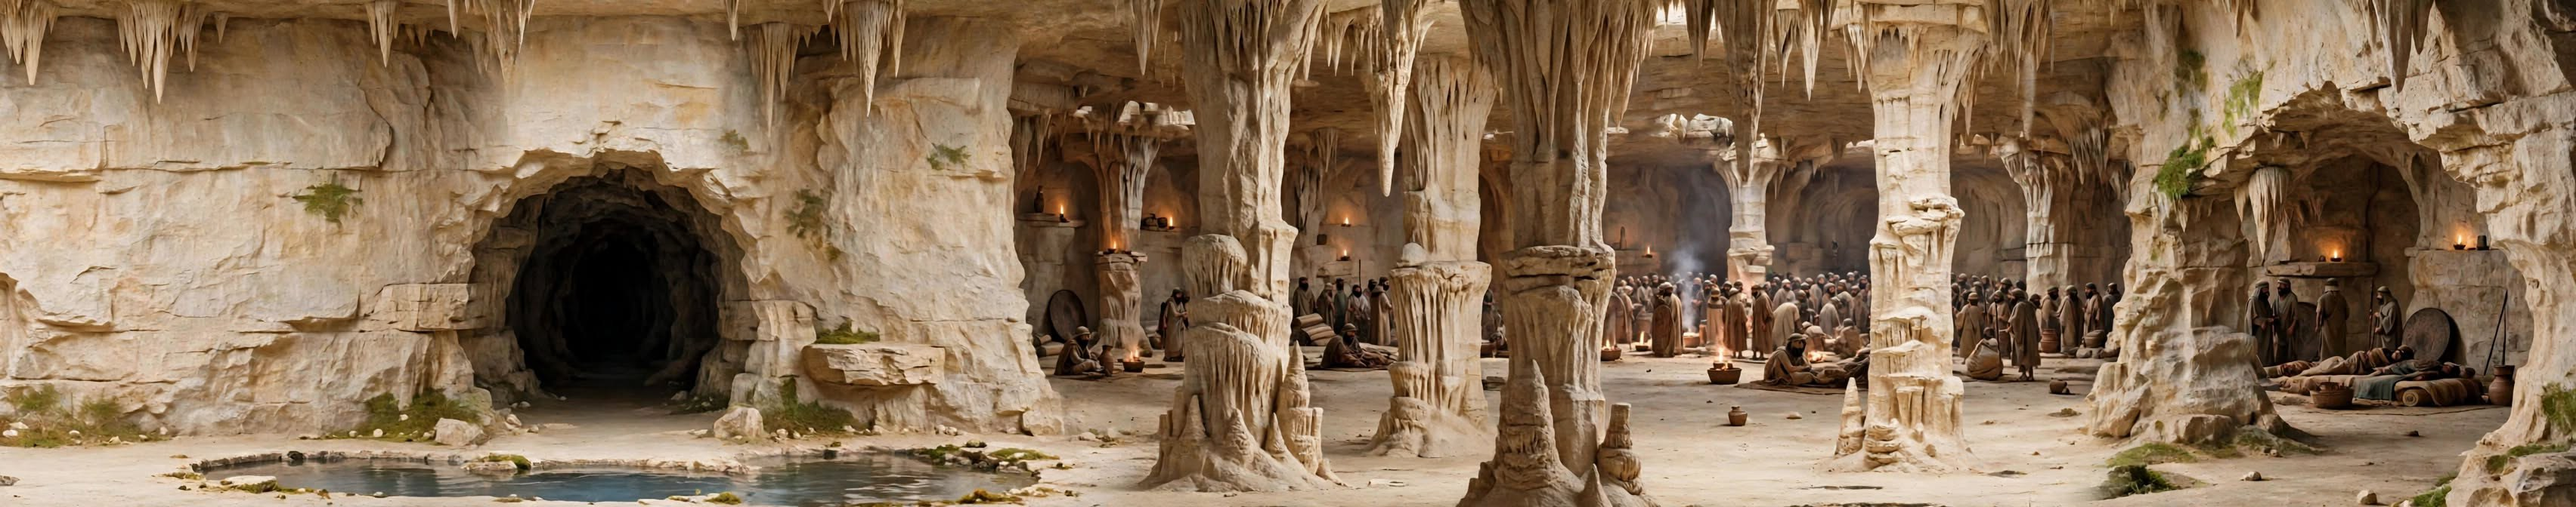
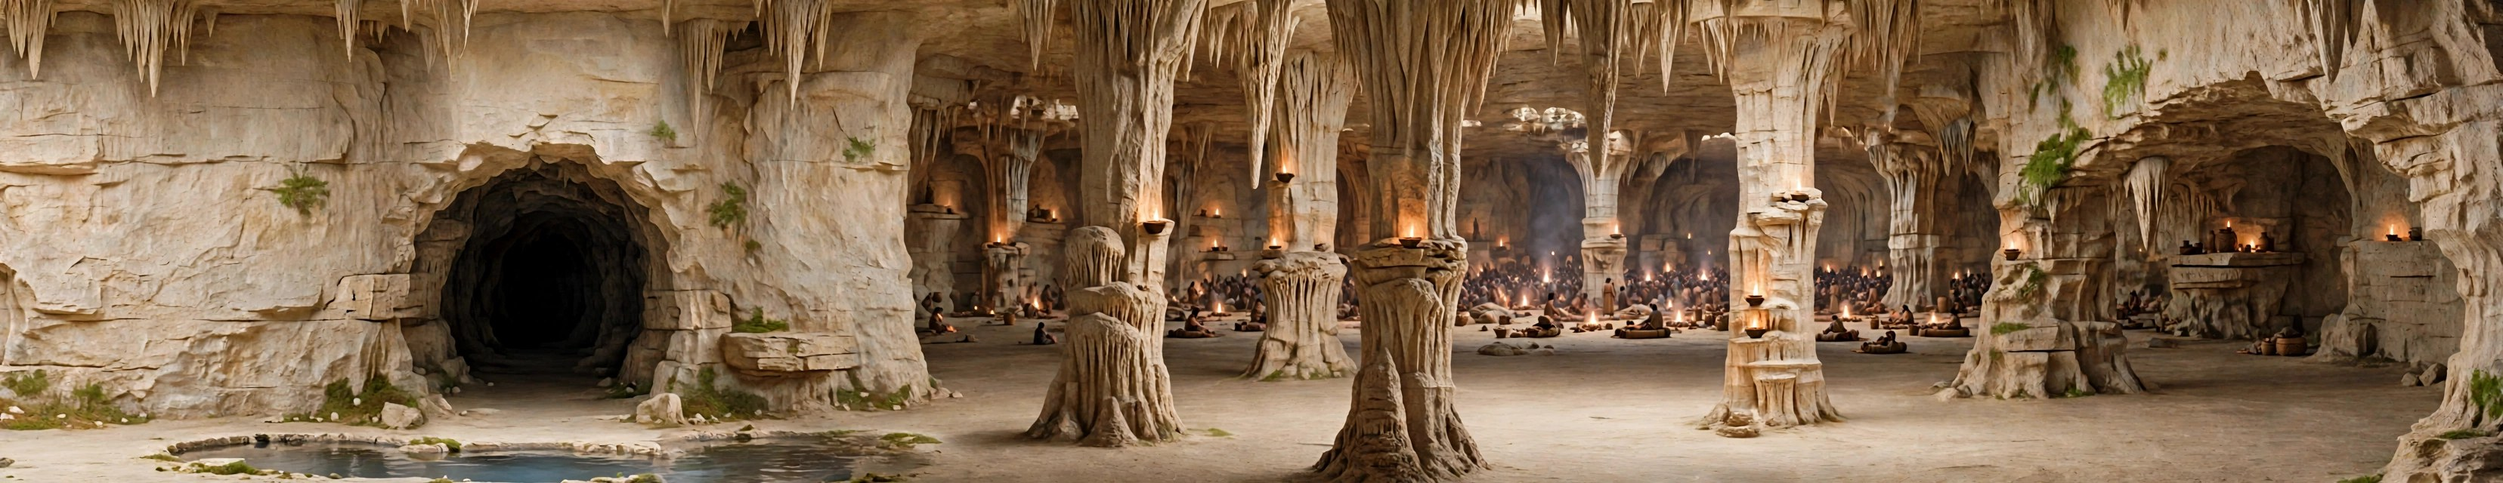
World 4: Glen's smaller-men camp pictures (a few, a crowd, packed); no dark line between the backdrop and the floor (the dark starts where each floor is solid)
Claude-Session: https://claude.ai/code/session_018JCxWJ972csv1aoHy7ivxa

diff --git a/game/adullam.js b/game/adullam.js
@@ -44,6 +44,7 @@ const R4 = {
   // (Glen 11-13: "Here are some cave floors") his floors, under David's feet, scrolling with him: px of each over the
   //  ground line (he walks a little way into it, not along its back edge)
   FLOOR: { limestone: 80, sandstone: 74, dark: 70, pebbles: 50 },
+  FLOOR_SOLID: { limestone: 42, sandstone: 45, dark: 2, pebbles: 104 },   // (the row each floor picture is solid from: under it, dark)
   // (Glen 11-13: "paint the exact ledges that we can jump on") a way up a tall room: his ledges zigzagging, each DY px
   //  over the last, GAP px apart sideways, kept EDGE px from the walls; their sizes in turn
   ZIG: { DY: 115, GAP: 55, EDGE: 70, SIZES: ["m", "l", "s", "m", "l"] },
@@ -811,7 +812,8 @@ function r4Floor(r, camX) {
   const fl = roomImg(`w4/floor_${r.ground}.png`); if (!fl) return false;
   const rx = r.c0 * T - camX, rw = r.w * T, y = GR * T - R4.FLOOR[r.ground], w = fl.naturalWidth, h = fl.naturalHeight;
   ctx.save(); ctx.beginPath(); ctx.rect(rx, camY, rw, H + 400); ctx.clip();
-  ctx.fillStyle = "#14100c"; ctx.fillRect(rx, y + 30, rw, H + 400);
+  // (Glen 11-13: "a black space from background to topsoil floor") the dark under his floor only from where it's solid
+  ctx.fillStyle = "#14100c"; ctx.fillRect(rx, y + (R4.FLOOR_SOLID[r.ground] ?? h), rw, H + 400);
   for (let i = 0; i * w < rw; i++) {
     const x = Math.round(rx + i * w);
     if (x > W || x + w < 0) continue;

diff --git a/CAVES_PLAN.md b/CAVES_PLAN.md
@@ -187,3 +187,6 @@ River, the Flooded Tunnel and the Deep Pool, two biters by the long rock in the 
   men sitting and talking, the old man, two huddled, the boy; each newcomer found stands there after ("r4_man_N").
 - The Camp's picture grows with the newcomers (Glen's set12_camp_crowd_1-3 -> pano_camp_1-3; r4CampStage): a few men,
   then a crowd at 4 found, then packed at all 8.
+- (later) Glen's smaller-men camp pictures: pano_camp_1 = set12_camp_crowd_2_small (a few by the fires), _2 =
+  set12_camp_crowd_2b_small (a sitting crowd), _3 = set12_camp_crowd_3_small (packed). The dark under the floors starts
+  where each floor picture is solid (R4.FLOOR_SOLID): no dark line between his picture and the floor.
